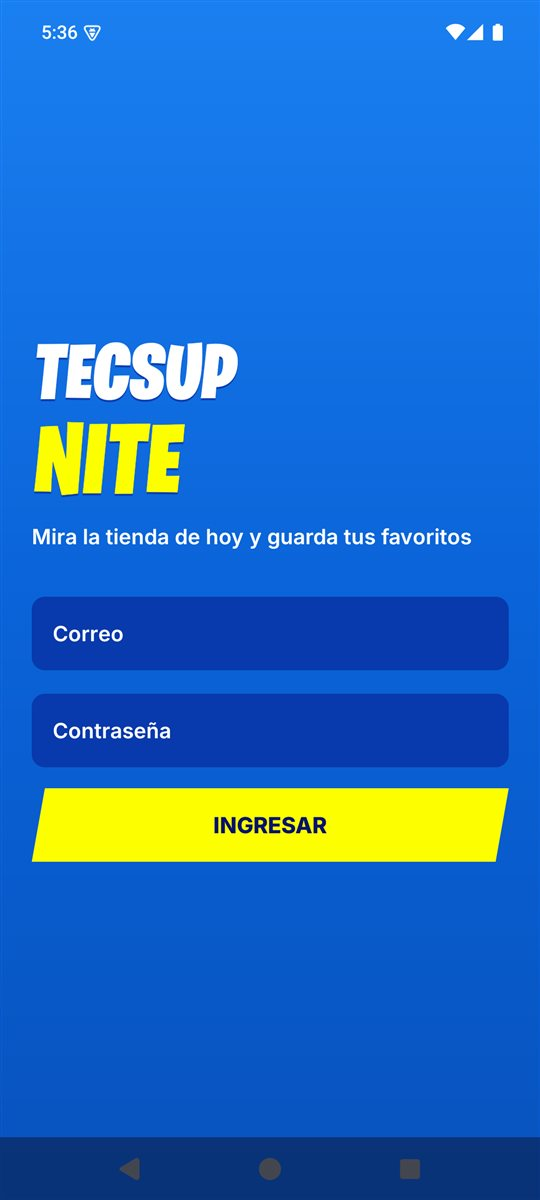
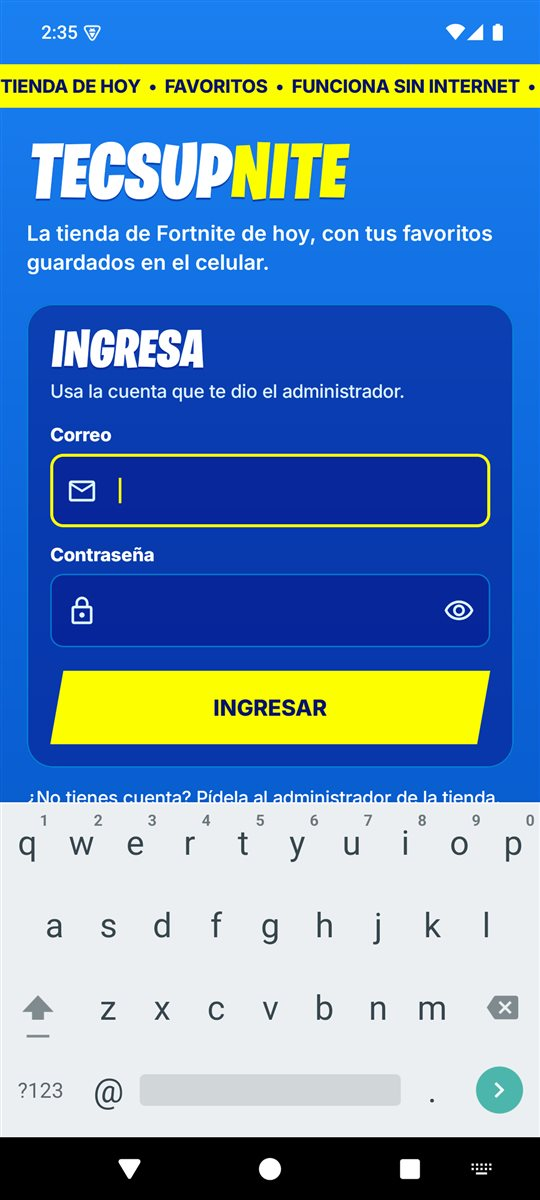
docs: capturas del nuevo login

diff --git a/Semana 12/TecsupNite/README.md b/Semana 12/TecsupNite/README.md
@@ -42,6 +42,10 @@ Tomadas en el emulador con la tienda real del 09/11/2026 y la cuenta admin.
 |---|---|---|
 | ![Login](capturas/01-login.jpg) | ![Tienda](capturas/02-tienda.jpg) | ![Secciones](capturas/03-tienda-secciones.jpg) |
 
+| Login con error |
+|---|
+| ![Error de login](capturas/08-login-error.jpg) |
+
 | Hoja del producto | Favoritos | Notificación | Panel Admin |
 |---|---|---|---|
 | ![Detalle](capturas/04-detalle.jpg) | ![Favoritos](capturas/05-favoritos.jpg) | ![Notificación](capturas/06-notificacion.jpg) | ![Admin](capturas/07-admin.jpg) |
